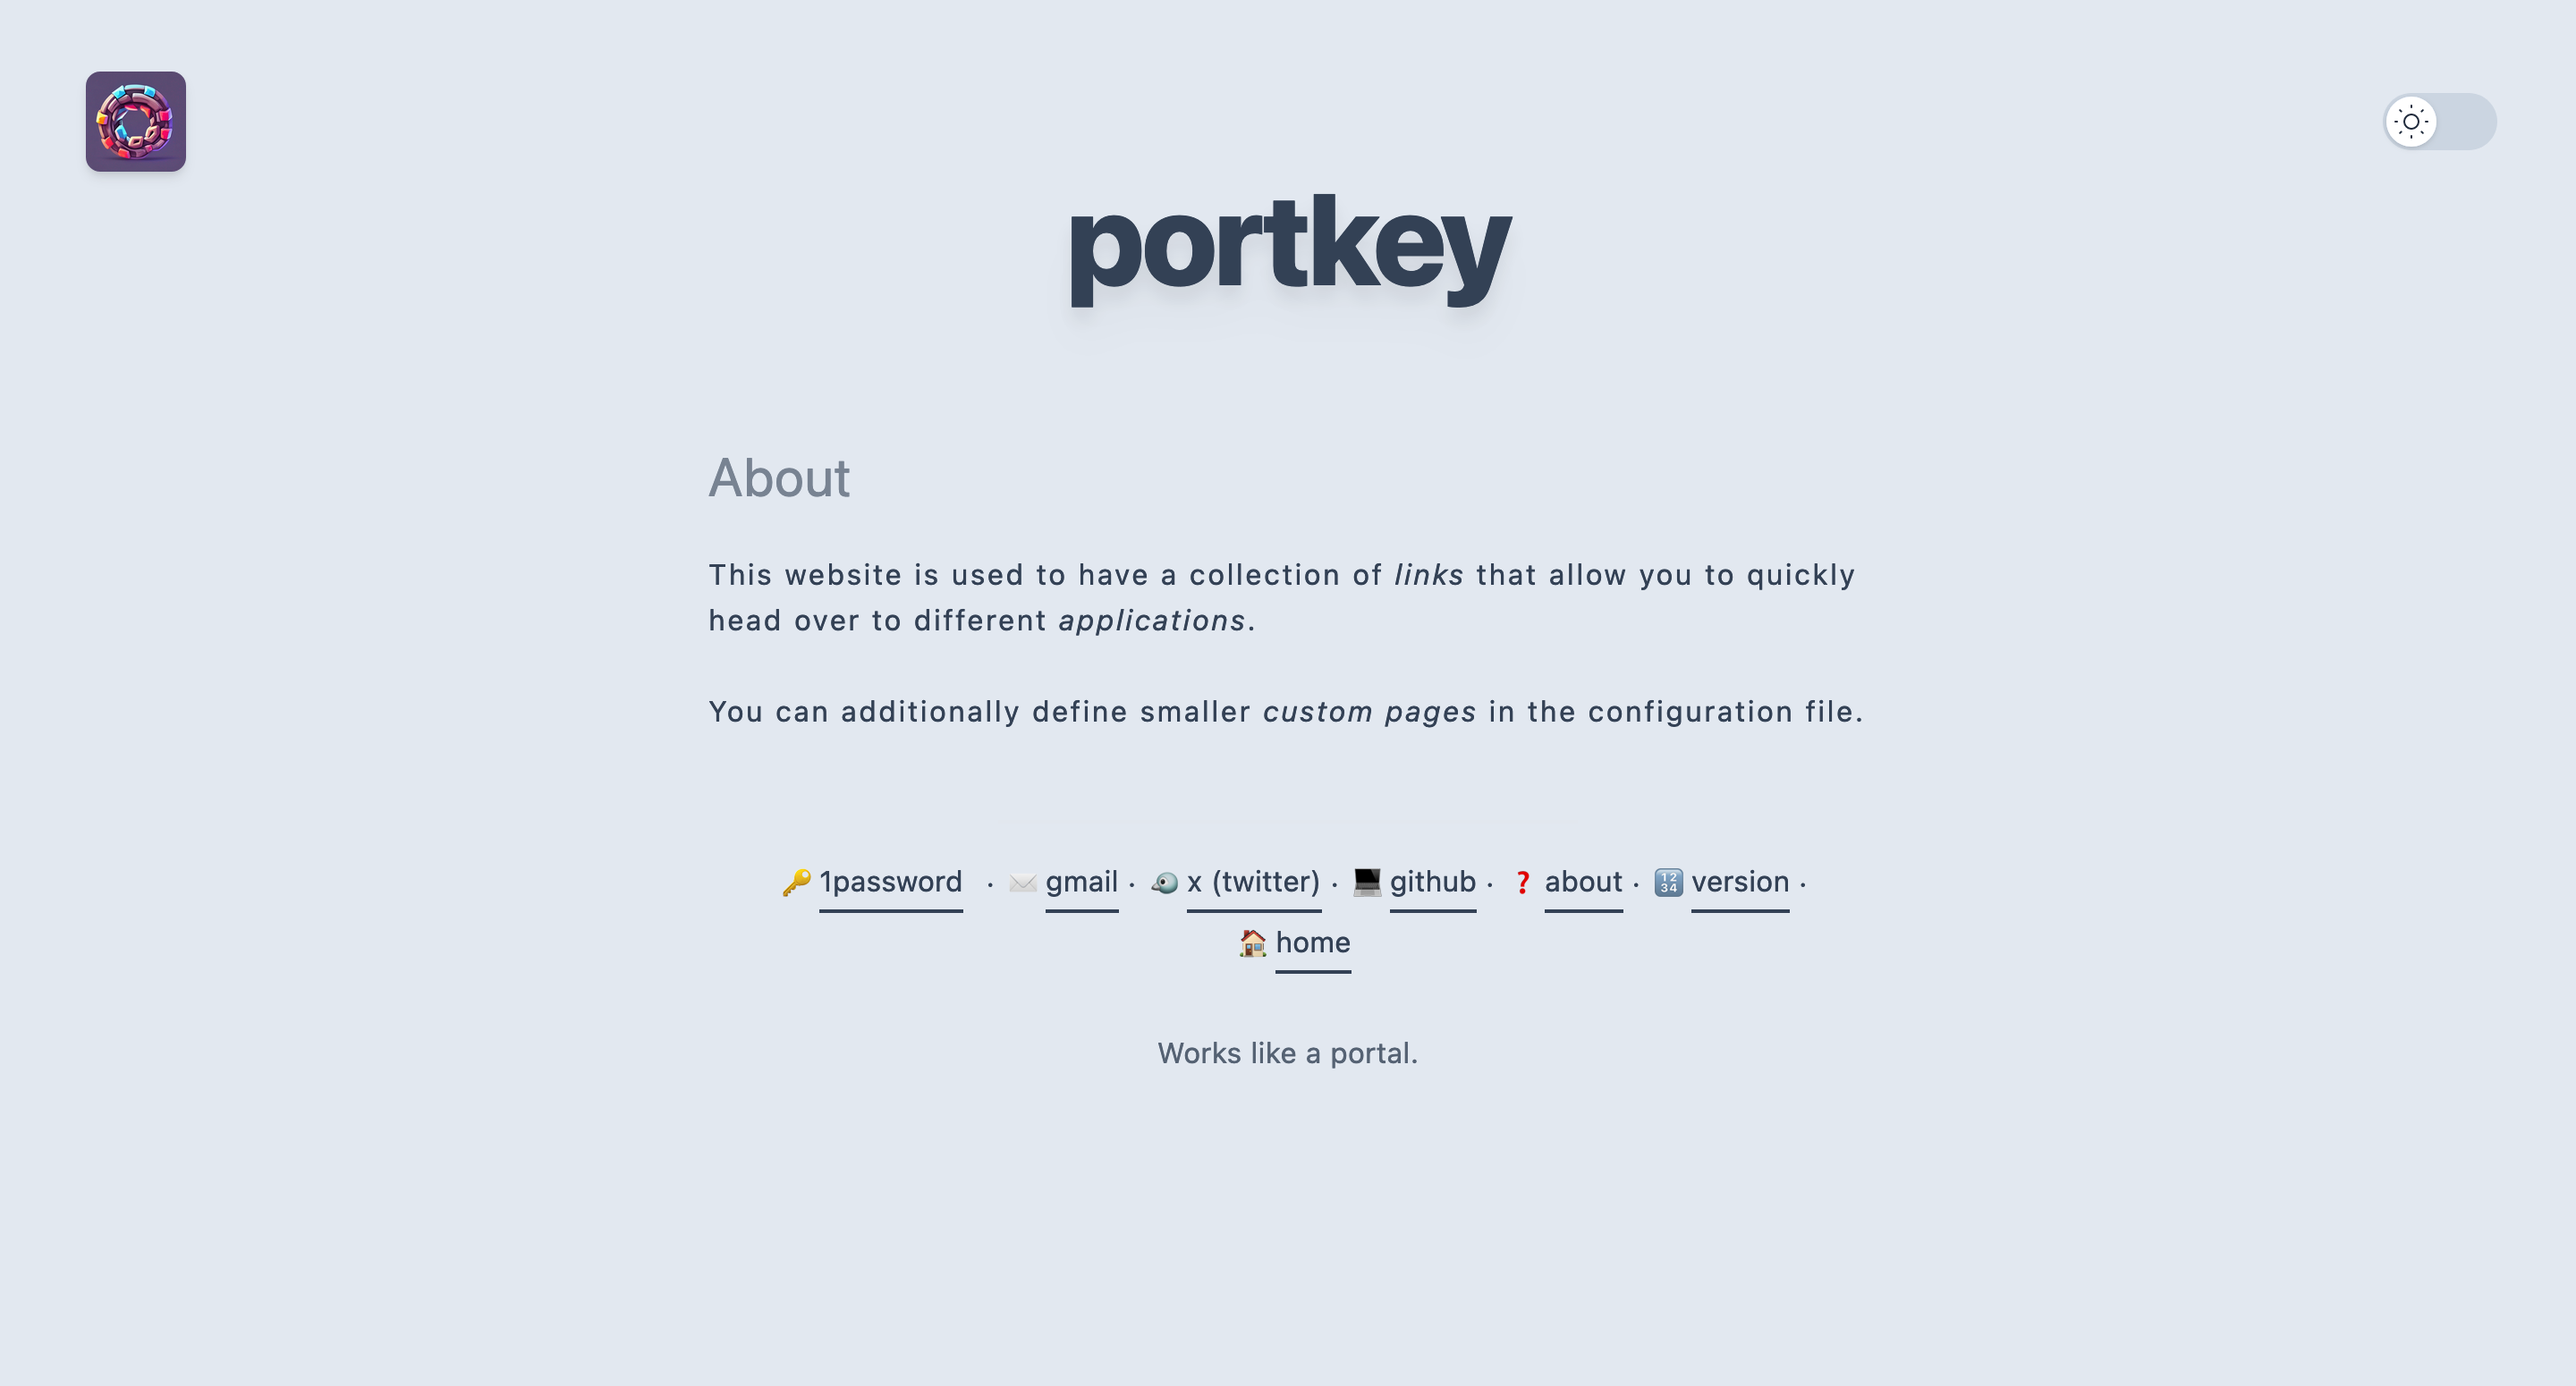
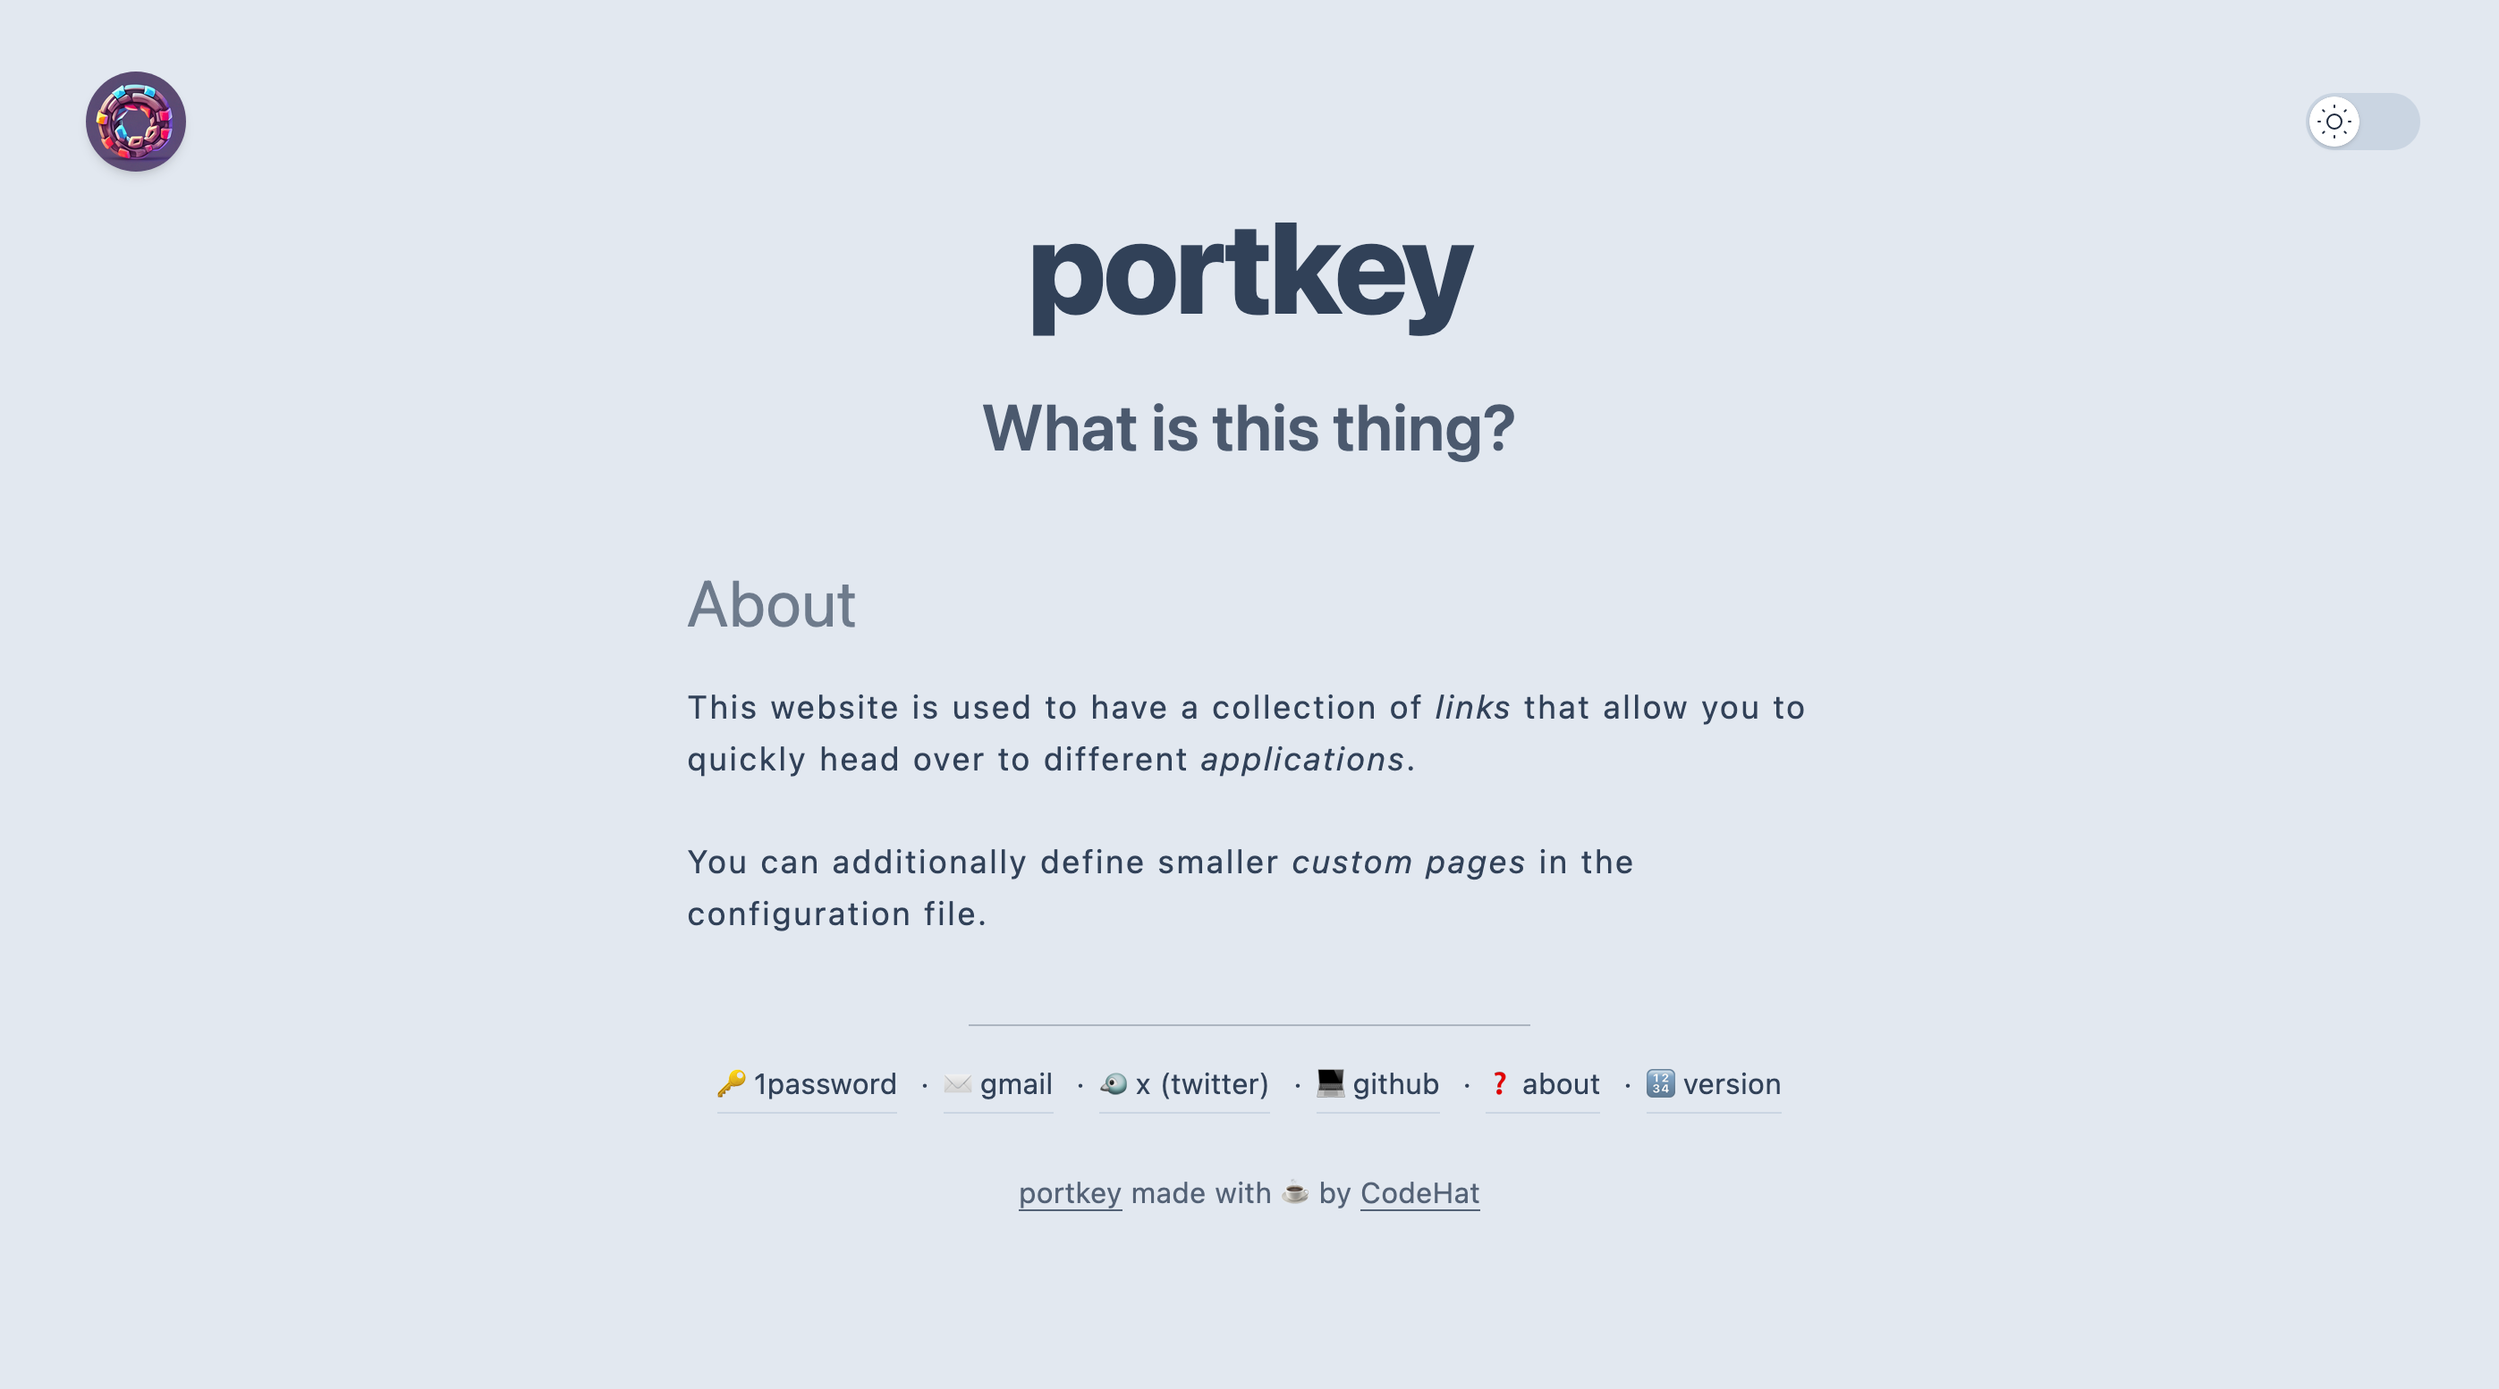
docs: update screenshots

diff --git a/README.md b/README.md
@@ -85,10 +85,14 @@
 
   <summary>Click to view screenshots</summary>
 
-  #### Link collection
+  #### Link collection (no groups)
 
-  ![LinkCollection](docs/images/screenshot_full.png "Link collection")
+  ![LinkCollectionNoGroups](docs/images/screenshot_no_groups_full.png "Link collection (no groups)")
   
+#### Link collection (with groups)
+
+  ![LinkCollectionWithGroups](docs/images/screenshot_with_groups_full.png "Link collection (with groups)")
+
   #### Search for a link
 
   ![SearchForLink](docs/images/screenshot_search.png "Search for a link")
